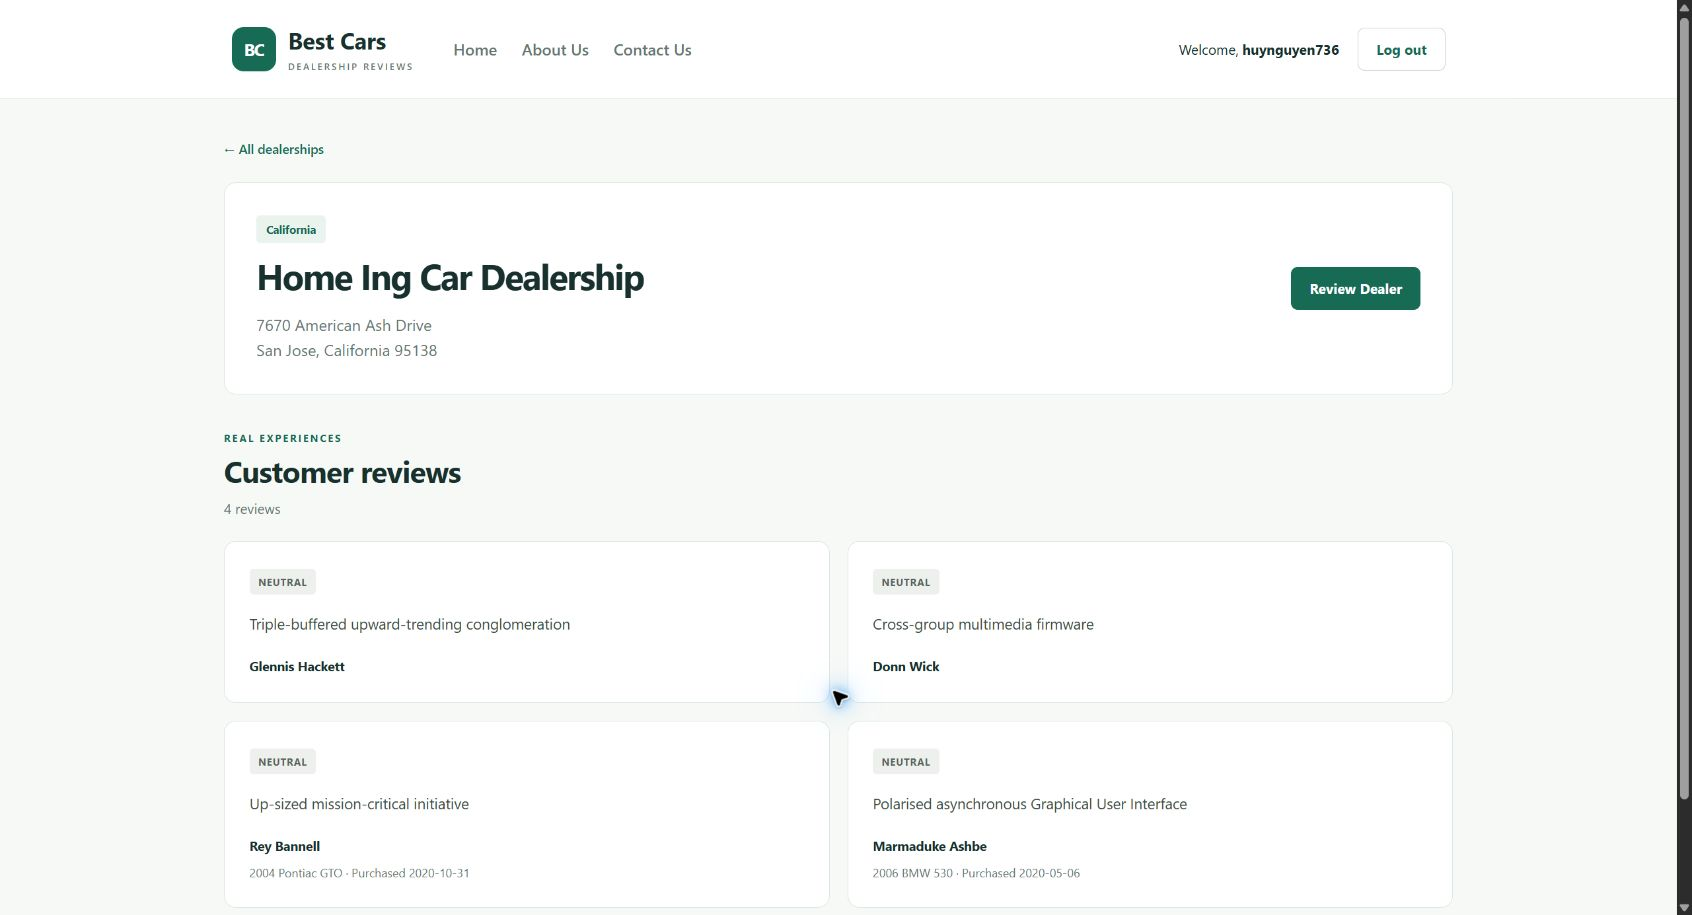
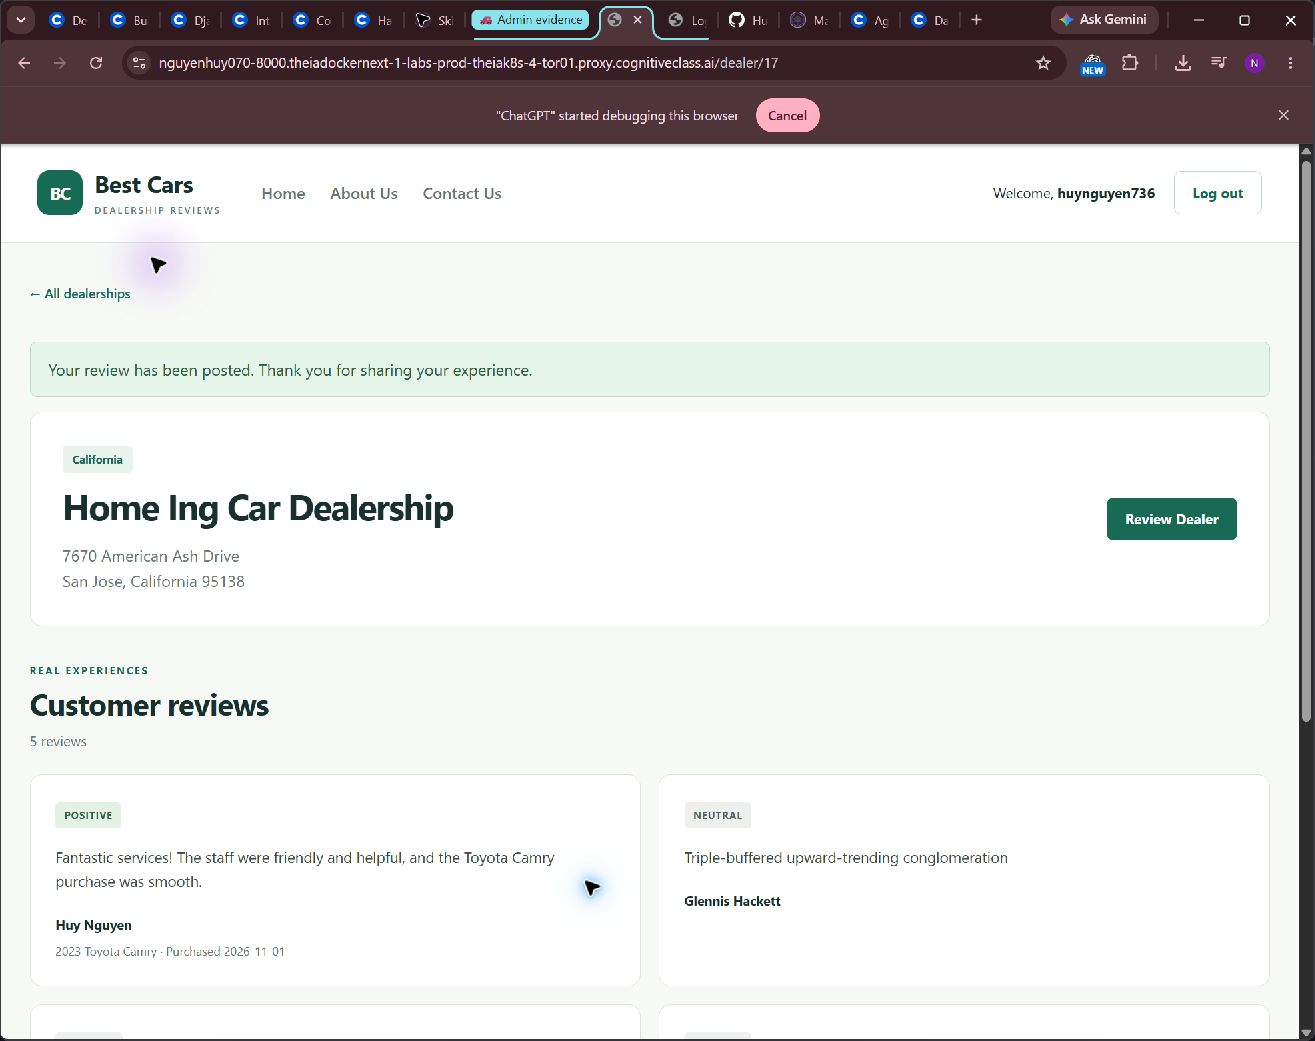
Complete the screenshot evidence required for every capstone task
Confidence: high

Scope-risk: narrow

Tested: All 28 artifacts exist; 12 JPEG captures verified; required screenshots show the real browser address bar; submission ZIP integrity verified

Directive: Keep the Skills Network lab and port-forward active while the deployment URL is being graded

diff --git a/submission/README.md b/submission/README.md
@@ -2,9 +2,9 @@
 
 Verified on 2026-11-09 (Asia/Saigon). Application code: commit `4e7bcbbf504b67c082678b80fe1ecc4413e32f86`.
 
-**21 tasks have the requested artifact. 7 screenshot tasks still require a new capture with the browser address bar visible.**
+**All 28 tasks have the requested submission artifact.**
 Every screenshot below is freshly captured from this fork, not the inherited `Screenshots/` folder.
-The seven marked incomplete show real working application content, but only the page viewport was captured. Do not treat these as rubric-complete screenshots.
+Tasks 18, 19, 20 and 25–28 include the actual browser address bar. Images are unedited captures. Other screenshot tasks show the requested page content; root admin images are local, and application images are from the deployed Django app.
 
 Live application: [Open Best Cars](https://nguyenhuy070-8000.theiadockernext-1-labs-prod-theiak8s-4-tor01.proxy.cognitiveclass.ai/)
 
@@ -30,23 +30,23 @@ The run includes backend/frontend tests, frontend build, Docker build and a prod
 | 15 | [getallcarmakes](https://github.com/Huynguyen736/xrwvm-fullstack_developer_capstone/blob/main/getallcarmakes) | All car models | Ready |
 | 16 | [analyzereview](https://github.com/Huynguyen736/xrwvm-fullstack_developer_capstone/blob/main/analyzereview) | Fantastic services positive result | Ready |
 | 17 | [get_dealers.jpeg](https://github.com/Huynguyen736/xrwvm-fullstack_developer_capstone/blob/main/submission/screenshots/get_dealers.jpeg) | Anonymous Django homepage | Ready |
-| 18 | [get_dealers_loggedin.jpeg](https://github.com/Huynguyen736/xrwvm-fullstack_developer_capstone/blob/main/submission/screenshots/get_dealers_loggedin.jpeg) | Username and Review Dealer buttons | **Recapture with address bar** |
-| 19 | [dealersbystate.jpeg](https://github.com/Huynguyen736/xrwvm-fullstack_developer_capstone/blob/main/submission/screenshots/dealersbystate.jpeg) | Kansas filter | **Recapture with address bar** |
-| 20 | [dealer_id_reviews.jpeg](https://github.com/Huynguyen736/xrwvm-fullstack_developer_capstone/blob/main/submission/screenshots/dealer_id_reviews.jpeg) | Dealer 17 and reviews | **Recapture with address bar** |
+| 18 | [get_dealers_loggedin.jpeg](https://github.com/Huynguyen736/xrwvm-fullstack_developer_capstone/blob/main/submission/screenshots/get_dealers_loggedin.jpeg) | Username and Review Dealer buttons | Ready |
+| 19 | [dealersbystate.jpeg](https://github.com/Huynguyen736/xrwvm-fullstack_developer_capstone/blob/main/submission/screenshots/dealersbystate.jpeg) | Kansas filter | Ready |
+| 20 | [dealer_id_reviews.jpeg](https://github.com/Huynguyen736/xrwvm-fullstack_developer_capstone/blob/main/submission/screenshots/dealer_id_reviews.jpeg) | Dealer 17 and reviews | Ready |
 | 21 | [dealership_review_submission.jpeg](https://github.com/Huynguyen736/xrwvm-fullstack_developer_capstone/blob/main/submission/screenshots/dealership_review_submission.jpeg) | Completed review form before submission | Ready |
 | 22 | [added_review.jpeg](https://github.com/Huynguyen736/xrwvm-fullstack_developer_capstone/blob/main/submission/screenshots/added_review.jpeg) | Posted review and positive sentiment | Ready |
 | 23 | [CICD](https://github.com/Huynguyen736/xrwvm-fullstack_developer_capstone/blob/main/CICD) | Actual successful GitHub Actions logs | Ready |
 | 24 | [deploymentURL](https://github.com/Huynguyen736/xrwvm-fullstack_developer_capstone/blob/main/deploymentURL) | Live Skills Network deployment URL | Ready |
-| 25 | [deployed_landingpage.jpeg](https://github.com/Huynguyen736/xrwvm-fullstack_developer_capstone/blob/main/submission/screenshots/deployed_landingpage.jpeg) | Deployed anonymous homepage | **Recapture with address bar** |
-| 26 | [deployed_loggedin.jpeg](https://github.com/Huynguyen736/xrwvm-fullstack_developer_capstone/blob/main/submission/screenshots/deployed_loggedin.jpeg) | Deployed authenticated homepage | **Recapture with address bar** |
-| 27 | [deployed_dealer_detail.jpeg](https://github.com/Huynguyen736/xrwvm-fullstack_developer_capstone/blob/main/submission/screenshots/deployed_dealer_detail.jpeg) | Deployed dealer details and reviews | **Recapture with address bar** |
-| 28 | [deployed_add_review.jpeg](https://github.com/Huynguyen736/xrwvm-fullstack_developer_capstone/blob/main/submission/screenshots/deployed_add_review.jpeg) | Deployed posted review with sentiment | **Recapture with address bar** |
+| 25 | [deployed_landingpage.jpeg](https://github.com/Huynguyen736/xrwvm-fullstack_developer_capstone/blob/main/submission/screenshots/deployed_landingpage.jpeg) | Deployed anonymous homepage | Ready |
+| 26 | [deployed_loggedin.jpeg](https://github.com/Huynguyen736/xrwvm-fullstack_developer_capstone/blob/main/submission/screenshots/deployed_loggedin.jpeg) | Deployed authenticated homepage | Ready |
+| 27 | [deployed_dealer_detail.jpeg](https://github.com/Huynguyen736/xrwvm-fullstack_developer_capstone/blob/main/submission/screenshots/deployed_dealer_detail.jpeg) | Deployed dealer details and reviews | Ready |
+| 28 | [deployed_add_review.jpeg](https://github.com/Huynguyen736/xrwvm-fullstack_developer_capstone/blob/main/submission/screenshots/deployed_add_review.jpeg) | Deployed posted review with sentiment | Ready |
 
 ## How to submit
 
 - Tasks 1, 3, 4, 7: submit the public GitHub file URL in this table.
 - Tasks 2, 5, 6, 8–11, 14–16, 23: open the file and copy its actual text into the submission field.
-- Tasks requiring screenshots: download and upload the image, not the GitHub image-page URL. Seven images need recapturing as marked above.
+- Tasks requiring screenshots: download and upload the image, not the GitHub image-page URL. All requested images are included.
 - Task 24: copy only the application URL inside deploymentURL.
 
 ## Verification and limits
@@ -59,6 +59,7 @@ The run includes backend/frontend tests, frontend build, Docker build and a prod
 - Registration, logged-in dealer listing, Kansas filter, dealer reviews and a real new review with positive sentiment were verified in the deployed browser.
 - The Skills Network URL depends on the course lab and port-forward remaining active. SQLite data in emptyDir is lost upon Pod replacement/lab reset.
 - Local root account was used for admin screenshots; no admin password or database is committed.
+- Screenshot task readiness means the requested artifact has been checked, not a guarantee of the grader's score.
 - Login/logout evidence references a private CAPSTONE_PASSWORD environment variable and local cookie jar; secrets are not included.
 - Original source attribution and Apache-2.0 license are preserved in NOTICE and Git history.
 
@@ -66,7 +67,7 @@ The run includes backend/frontend tests, frontend build, Docker build and a prod
 
 - get_dealers: deployment root while logged out.
 - get_dealers_loggedin / deployed_loggedin: deployment /dealers, username huynguyen736.
-- dealersbystate: deployment /dealers?state=Kansas.
+- dealersbystate: deployment /?state=Kansas.
 - dealer_id_reviews / deployed_dealer_detail: deployment /dealer/17.
 - dealership_review_submission: deployment /postreview/17, entered Toyota Camry purchase details.
 - added_review / deployed_add_review: deployment /dealer/17 after successful submission.
